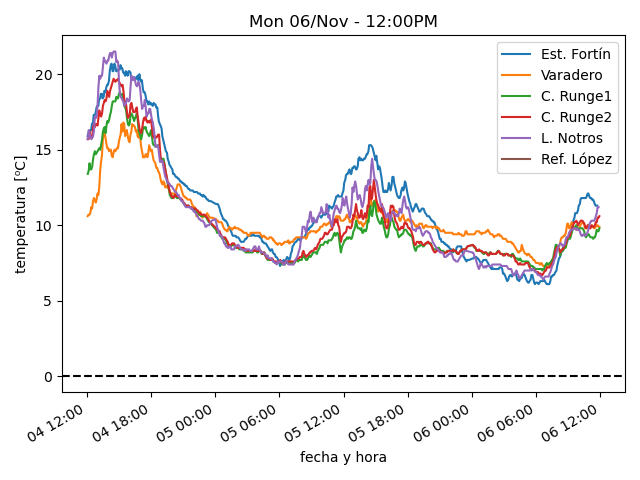
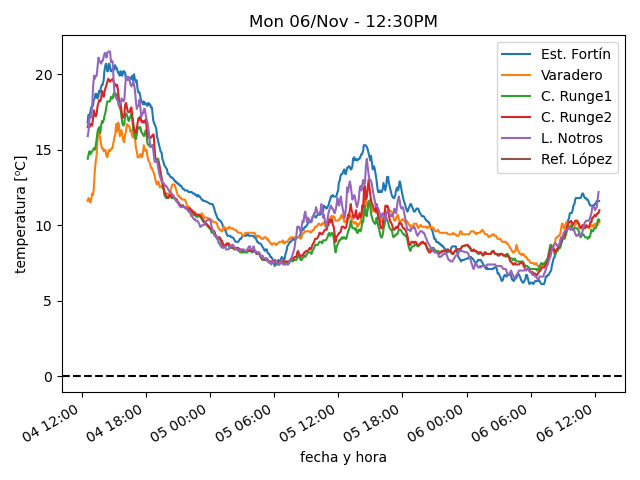
actualiza datos

diff --git a/estaciones/estacion1.html b/estaciones/estacion1.html
@@ -18,32 +18,32 @@
     </tr>
     <tr>
      <td class="stats_data">
-      11:43AM
+      12:23PM
      </td>
     </tr>
     <tr>
      <td class="stats_data">
-      11.3⁰C
+      11.6⁰C
      </td>
     </tr>
     <tr>
      <td class="stats_data">
-      6.9⁰C
+      6.8⁰C
      </td>
     </tr>
     <tr>
      <td class="stats_data">
-      74.0%
+      72.5%
      </td>
     </tr>
     <tr>
      <td class="stats_data">
-      1010.84hPa
+      1010.5hPa
      </td>
     </tr>
     <tr>
      <td class="stats_data">
-      6.4/13.7 km/hr SSW
+      9.7/12.9 km/hr SW
      </td>
     </tr>
     <tr>
@@ -53,12 +53,12 @@
     </tr>
     <tr>
      <td class="stats_data">
-      2.2
+      3.9
      </td>
     </tr>
     <tr>
      <td class="stats_data">
-      283.0 W/m²
+      490.0 W/m²
      </td>
     </tr>
    </tbody>

diff --git a/estaciones/estacion4.html b/estaciones/estacion4.html
@@ -18,32 +18,32 @@
     </tr>
     <tr>
      <td class="stats_data">
-      11:54AM
+      12:24PM
      </td>
     </tr>
     <tr>
      <td class="stats_data">
-      10.6⁰C
+      11.0⁰C
      </td>
     </tr>
     <tr>
      <td class="stats_data">
-      8.1⁰C
+      7.5⁰C
      </td>
     </tr>
     <tr>
      <td class="stats_data">
-      84.1%
+      79.1%
      </td>
     </tr>
     <tr>
      <td class="stats_data">
-      1011.82hPa
+      1011.51hPa
      </td>
     </tr>
     <tr>
      <td class="stats_data">
-      0.5/0.9 km/hr WNW
+      2.0/3.3 km/hr SE
      </td>
     </tr>
     <tr>
@@ -58,7 +58,7 @@
     </tr>
     <tr>
      <td class="stats_data">
-      243.2 W/m²
+      250.2 W/m²
      </td>
     </tr>
    </tbody>

diff --git a/estaciones/estacion2.html b/estaciones/estacion2.html
@@ -18,32 +18,32 @@
     </tr>
     <tr>
      <td class="stats_data">
-      11:54AM
+      12:24PM
      </td>
     </tr>
     <tr>
      <td class="stats_data">
-      9.9⁰C
+      10.2⁰C
      </td>
     </tr>
     <tr>
      <td class="stats_data">
-      8.5⁰C
+      8.2⁰C
      </td>
     </tr>
     <tr>
      <td class="stats_data">
-      90.6%
+      88.3%
      </td>
     </tr>
     <tr>
      <td class="stats_data">
-      1008.81hPa
+      1008.47hPa
      </td>
     </tr>
     <tr>
      <td class="stats_data">
-      6.3/6.9 km/hr WNW
+      6.1/7.1 km/hr NW
      </td>
     </tr>
     <tr>
@@ -58,7 +58,7 @@
     </tr>
     <tr>
      <td class="stats_data">
-      373.0 W/m²
+      351.4 W/m²
      </td>
     </tr>
    </tbody>

diff --git a/estaciones/estacion3.html b/estaciones/estacion3.html
@@ -18,32 +18,32 @@
     </tr>
     <tr>
      <td class="stats_data">
-      11:54AM
+      12:24PM
      </td>
     </tr>
     <tr>
      <td class="stats_data">
-      9.8⁰C
+      10.3⁰C
      </td>
     </tr>
     <tr>
      <td class="stats_data">
-      8.0⁰C
+      7.7⁰C
      </td>
     </tr>
     <tr>
      <td class="stats_data">
-      89.0%
+      83.7%
      </td>
     </tr>
     <tr>
      <td class="stats_data">
-      1003.12hPa
+      1002.91hPa
      </td>
     </tr>
     <tr>
      <td class="stats_data">
-      3.1/4.0 km/hr WNW
+      4.4/6.3 km/hr NW
      </td>
     </tr>
     <tr>
@@ -58,7 +58,7 @@
     </tr>
     <tr>
      <td class="stats_data">
-      290.2 W/m²
+      303.1 W/m²
      </td>
     </tr>
    </tbody>

diff --git a/estaciones/estacion5.html b/estaciones/estacion5.html
@@ -18,17 +18,17 @@
     </tr>
     <tr>
      <td class="stats_data">
-      11:50AM
+      12:20PM
      </td>
     </tr>
     <tr>
      <td class="stats_data">
-      11.2⁰C
+      12.2⁰C
      </td>
     </tr>
     <tr>
      <td class="stats_data">
-      8.8⁰C
+      9.7⁰C
      </td>
     </tr>
     <tr>
@@ -38,7 +38,7 @@
     </tr>
     <tr>
      <td class="stats_data">
-      1012.87hPa
+      1012.12hPa
      </td>
     </tr>
     <tr>
@@ -48,7 +48,7 @@
     </tr>
     <tr>
      <td class="stats_data">
-      0.76 / 0.51 mm
+      0.76 / 0.25 mm
      </td>
     </tr>
     <tr>
